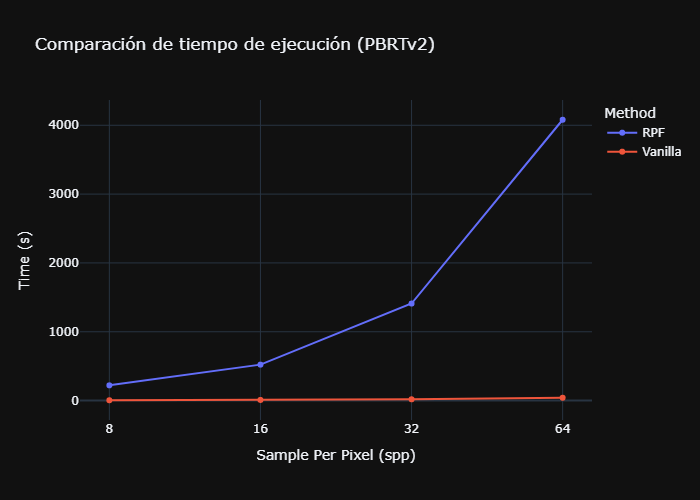
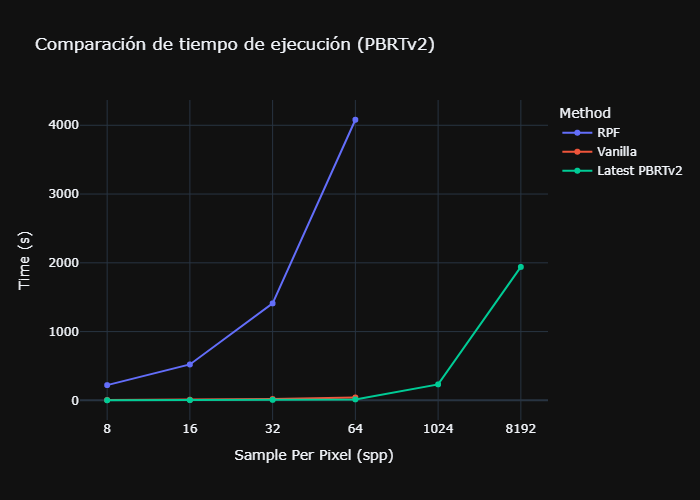
update res

diff --git a/index.html b/index.html
@@ -44,7 +44,7 @@
         <li class="text-md">---</li>
       </ul>
 
-      <h2 class="text-2xl font-semibold mt-4">Codigo Fuente</h2>
+      <h2 class="text-2xl font-semibold mt-4">Codigo Fuente: RPF</h2>
       <ul class="list-disc pl-5">
         <li class="text-md">Github: <a href="https://github.com/tux550/RPF-PBRT-v2-docker" class="text-blue-500 hover:underline">RPF-PBRT-v2-docker</a></li>
         <li class="text-md">Local: <a href="src/RPF-PBRT-v2-docker.zip" class="text-blue-500 hover:underline">Descargar</a></li>
@@ -53,6 +53,7 @@
       <h2 class="text-2xl font-semibold mt-4">Recursos Adicionales</h2>
       <ul class="list-disc pl-5">
         <li class="text-md">Presentación: <a href="files/Grafica-ProyectoFinal-RPF.pdf" class="text-blue-500 hover:underline">Descargar</a></li>
+        <li class="text-md">Repositorio de Docker PBRTv2: <a href="src/modern-PBRT-v2.zip" class="text-blue-500 hover:underline">Docker PBRTv2</a> (Ultima version de PBRTv2. Compilable dentro del mismo entorno docker que la implementación RPF)</li>
         <li class="text-md">Repositorio de Docker PBRTv3 : <a href="https://github.com/tux550/RayTracer-RPF" class="text-blue-500 hover:underline">Docker PBRTv3</a> (Docker + Implementación parcial de RPF en PBRTv3)
         </li> 
         <li class="text-md">Escena para PBRTv3: <a href="files/Conference.zip" class="text-blue-500 hover:underline">Descargar</a></li>
@@ -164,7 +165,7 @@
       <p class="text-lg mb-4">
         A continuación se presentan los resultados de renderizar la escena <code  class="text-sm text-gray-600 bg-gray-200 px-1 rounded">./scenes/Conference.pbrt</code> con y sin RPF (spp=8).
         <br>
-        Adicionalmente, se incluye una imagen de referencia de renderizar la misma escena en PBRTv3 sin RPF con un spp de 8192.
+        Adicionalmente, se incluye una imagen de referencia de renderizar la misma escena en la versión más reciente de PBRTv2 sin RPF con un spp de 8192.
       </p>
       <div class="grid grid-cols-1 md:grid-cols-2 lg:grid-cols-3 gap-4">
         <div class="bg-gray-200 rounded-lg">
@@ -180,37 +181,44 @@
         </div>
 
         <div class="bg-gray-200 rounded-lg">
-          <h4 class="text-lg font-semibold text-center">PBRTv3 (8096spp)</h4>
-          <p class="text-center">Tiempo de ejecucción: 2h 24min 28s</p>
-          <img src="imgs/highres8192.png" alt="highres8192.png" class="w-full  object-contain">
+          <h4 class="text-lg font-semibold text-center">Latest PBRTv2 (8096spp)</h4>
+          <p class="text-center">Tiempo de ejecucción: 32min 20s</p>
+          <img src="imgs/Conference_8192_PBRTV2.png" alt="highres8192.png" class="w-full  object-contain">
         </div>
       </div>
       <br>
+      Note como primer punto que incluso con 8192 spp, la imagen generada por PBRTv2 sin RPF presenta ruido, lo que demuestra la problematica de la relación costo-calidad en los sistemas de Monte-Carlo.
 
-      Tomar en consideración que PBRTv2 y PBRTv3 utilizan diferentes implementaciónes del algoritmo de muestreo por lo que, aunque se intentó replicar los parametros de la escena, los resultados varian.
-      <br>
-
-      A pesar de esto, se puede observar que la implementación de RPF logra reducir el ruido en la imagen generada, comparable con el resultado de PBRTv3 con un costo computacional significativamente menor.
-      <br>
+      En lo que respecto a la comparación entre las imagenes generadas con y sin RPF, se puede observar como la implementación de RPF logra reducir el ruido en la imagen generada, comparable con el resultado de la versión más reciente de PBRTv2 sin RPF con un spp de 8192. Sin embargo, se observan diferencias en la fidelidad de las sombras, las cuales son más suaves en la imagen generada por RPF. El algoritmo sácrifica la fidelidad de las sombras para reducir el ruido en la imagen. Esto se nota particularmente en las sombras de las sillas y el techo.
     
     <h3 class="text-xl font-semibold mb-2 mt-2">Experimentos Cuantitativos</h3>
 
-    <!-- Dos graficos lado a lado -->
-    <div class="grid grid-cols-1 md:grid-cols-2 gap-4">
+    <div class="grid grid-cols-1 md:grid-cols-3 gap-4">
       <div class="bg-gray-200 rounded-lg">
         <h4 class="text-lg font-semibold text-center">Tiempo de ejecucción</h4>
         <img src="imgs/execution_time.png" alt="execution_time.png"    class="w-full object-contain">
       </div>
+
       <div class="bg-gray-200 rounded-lg">
-        <h4 class="text-lg font-semibold text-center">Error Cuadrático Medio</h4>
+        <h4 class="text-lg font-semibold text-center">Error Cuadrado Medio</h4>
         <img src="imgs/mse.png" alt="mse.png" class="w-full object-contain">
       </div>
+
+      <div class="bg-gray-200 rounded-lg">
+        <h4 class="text-lg font-semibold text-center">Structural Similarity Index Metric</h4>
+        <img src="imgs/ssim.png" alt="ssim.png"    class="w-full object-contain">
+      </div>
+
     </div>
 
-    Debido a las discrepancias entre la imagen usada de referencia y la generada por PBRTv2, los errores MSE son mayores a los esperados. No obstane, se puede observar que la implementación de RPF reduce su error a medida de que se incrementa el numero de muestras.
-    <br>
-    En lo que respecta al tiempo de ejecucción, no se ha logrado replicar los tiempos del paper (8spp con RPF = 32spp sin RPF). A pesar de ello, se observa que incluso en el peor de los casos (32 spp), el tiempo de RPF no supera al tiempo de Monte-Carlo de alta calidad sin RPF de PBRTv3
+    Tomar en consideración como primer punto a destacar que la implementación disponible de RPF hace un uso excesivo de memoria, por lo que se ha limitado el numero maximo de muestras a 64 spp. En la versión moderna de PBRTv2, si ha sido posible renderizar la escena con 8192 spp. No obstante, esta no es una comparación totalmente justa dado a que la versión más moderna de PBRTv2 ha sido optimizada y mejorada en varios aspectos.
 
+    <br>
+
+    A pesar de ello, podemos observar que las ejecucciones de RPF con 32 o menos spp tienen un tiempo de ejecucción menores a la imagen de referncia y presentan una significativa mejora en las métricas de error y similitud estructural. Sin embargo, a medida que se incrementa el numero de spp, el tiempo de ejecucción de RPF se dispara, sin una mejora significativa en las métricas de calidad.
+
+    <br>
+    Las observaciones realizadas sugieren que el algoritmo de RPF es efectivo en casos de uso con un numero bajo de muestras, pero pierde efectividad a medida que se incrementa el numero de muestras. Esto se debe a que el algoritmo se basa en la similitud de features y colores entre las muestras, lo que se vuelve más dificil de calcular a medida que se incrementa el numero de muestras.
 
     </section>
   </body>
